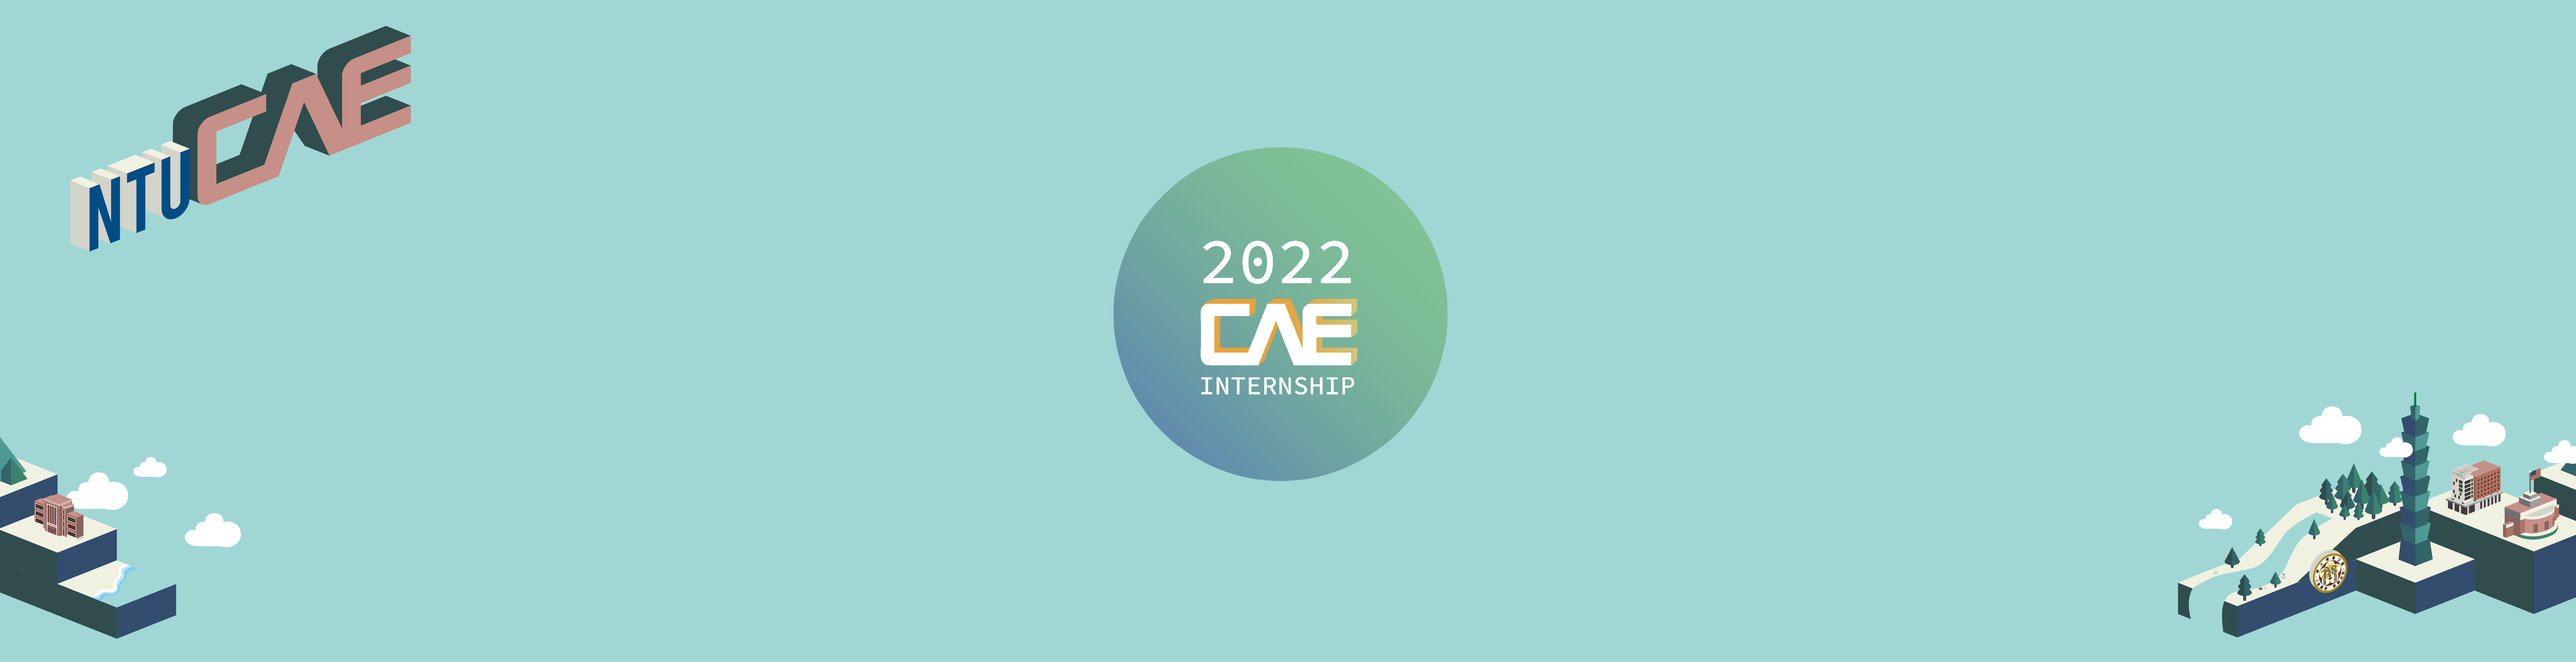
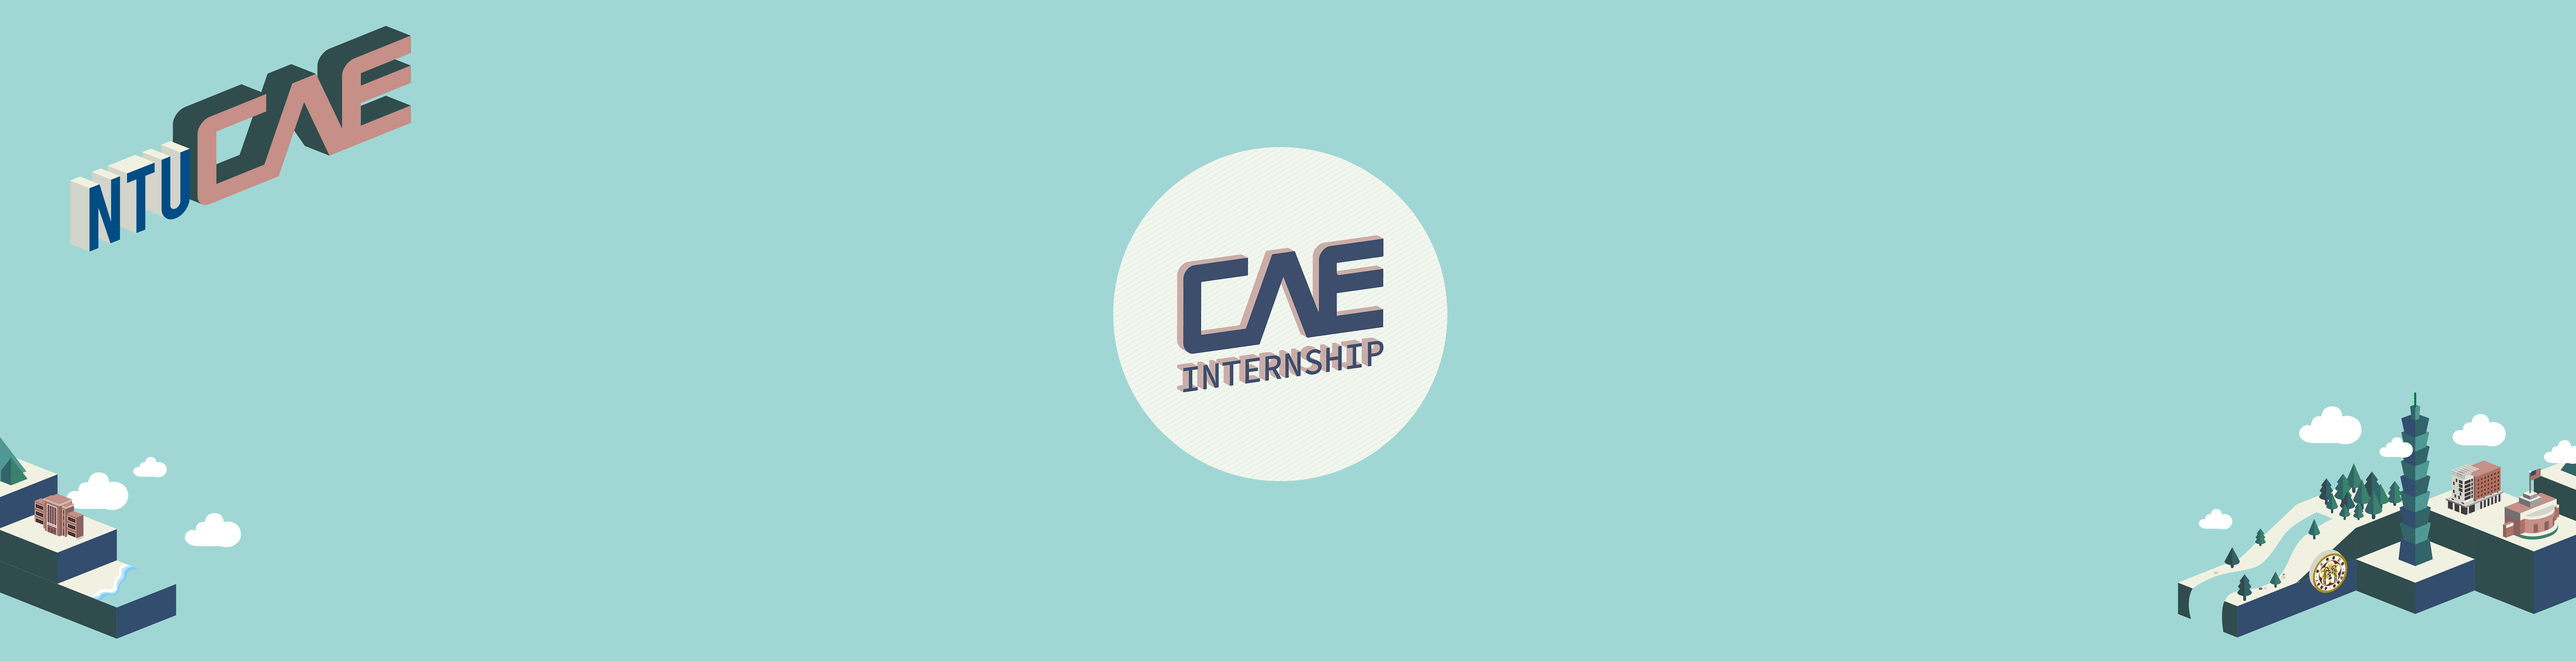
2023 update

Changed region(s): [[0.4056, 0.2177, 0.5616, 0.7462]]

diff --git a/src/mintpage/index.js b/src/mintpage/index.js
@@ -40,7 +40,8 @@ const MintPage = ({accountAddr, tempSigner}) => {
 
     const [year, setYear] = useState(allProgram[allType[pageCount]].year[0]);
 
-    const [contractAddr, setContractAdddr] = useState('0xB48C9d65f9C4451b1B33CEB9229550a3157c8Ea7');
+    // const [contractAddr, setContractAdddr] = useState('0xB48C9d65f9C4451b1B33CEB9229550a3157c8Ea7'); 2022年
+    const [contractAddr, setContractAdddr] = useState('0x69D50F8F6c5Ae7676e7fEd43eDa99dC10ADAe027'); // 2023年
 
     const [contractABI, setcontractABI] = useState(abi);
 

diff --git a/public/index.html b/public/index.html
@@ -23,7 +23,7 @@
       work correctly both with client-side routing and a non-root public URL.
       Learn how to configure a non-root public URL by running `npm run build`.
     -->
-    <title>CAE Digital Certification</title>
+    <title>CAE Digital Certificate</title>
     <script src="https://cdn.jsdelivr.net/npm/web3@latest/dist/web3.min.js"></script>
     <script src="https://unpkg.com/moralis-v1/dist/moralis.js"></script>
   </head>

diff --git a/src/data/bulletinboard.js b/src/data/bulletinboard.js
@@ -1,7 +1,7 @@
 export const annouceContent = [
     {
-        'date': '22/08/18',
-        'text': '2022 CAE暑期實習證書上線囉！',
+        'date': '23/08/17',
+        'text': '2023 CAE暑期實習證書上線囉！',
     },
     {
         'date': '22/08/18',
